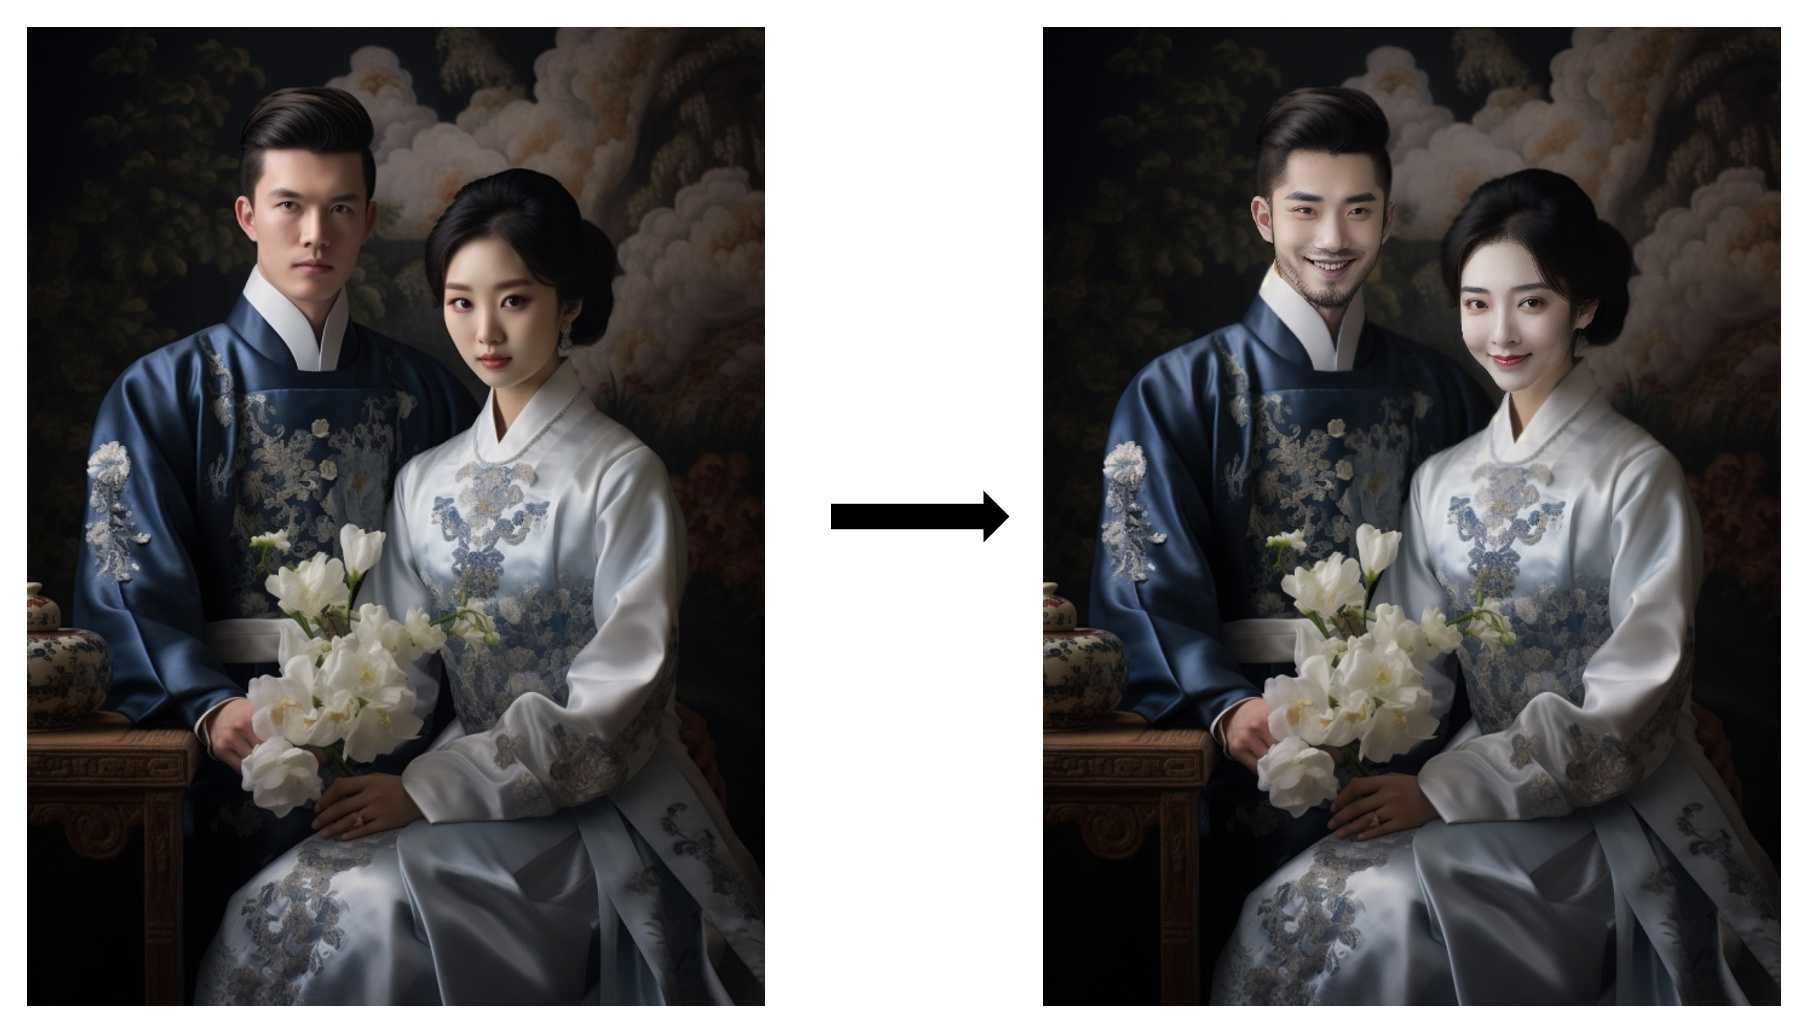
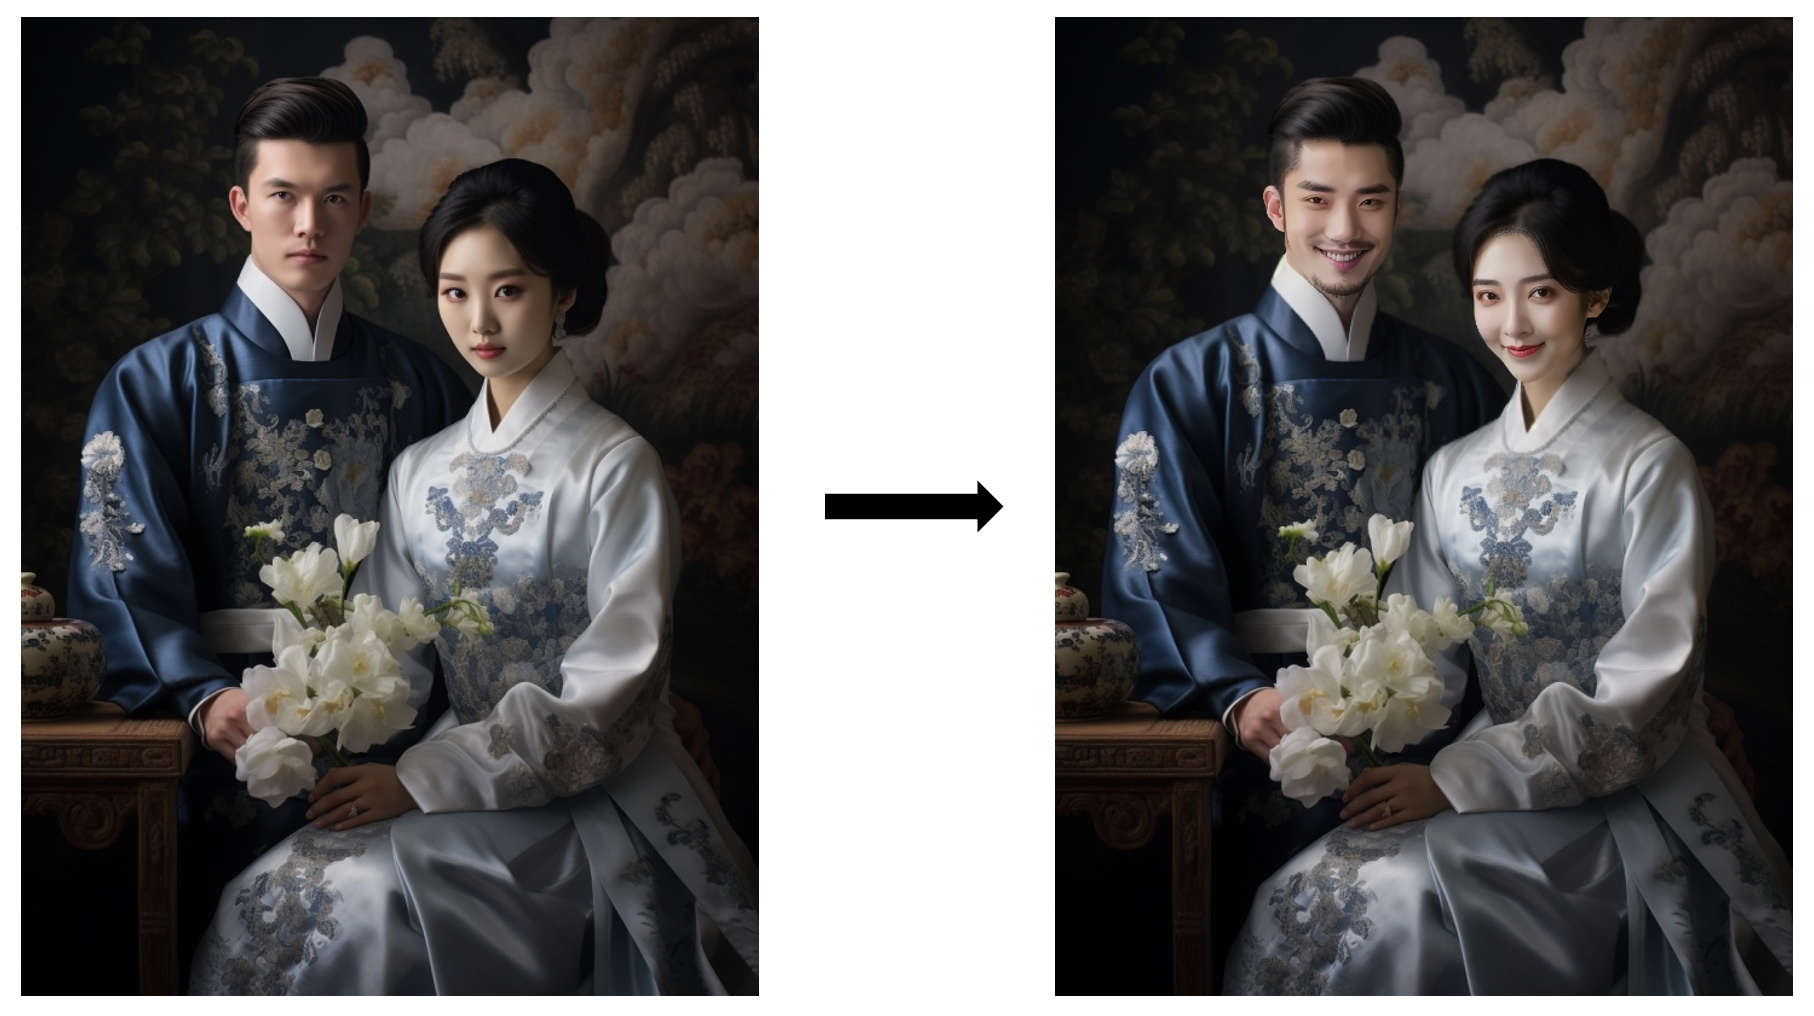
solve_inpaint_artifacts (#202)
solve_inpaint_artifacts & update_cover_img

diff --git a/facechain/inference_ipt.py b/facechain/inference_ipt.py
@@ -103,7 +103,7 @@ def crop_and_paste(Source_image, Source_image_mask, Target_image, Source_Five_Po
     return output, mask
 
 
-def segment(segmentation_pipeline, img, ksize=0, eyeh=0, ksize1=0, include_neck=False, warp_mask=None):
+def segment(segmentation_pipeline, img, ksize=0, eyeh=0, ksize1=0, include_neck=False, warp_mask=None, return_human=False):
     if True:
         result = segmentation_pipeline(img)
         masks = result['masks']
@@ -160,7 +160,11 @@ def segment(segmentation_pipeline, img, ksize=0, eyeh=0, ksize1=0, include_neck=
         if include_neck:
             soft_mask = np.clip(soft_mask + mask_neck, 0, 1)
 
-    return soft_mask
+    if return_human:  
+        mask_human = cv2.GaussianBlur(mask_human, (21, 21), 0) * mask_human
+        return soft_mask, mask_human
+    else:
+        return soft_mask
 
 
 def crop_bottom(pil_file, width):
@@ -321,13 +325,14 @@ def main_diffusion_inference_inpaint(inpaint_image, strength, output_img_size, p
     pipe = pipe.to("cuda")
 
     images_human = []
+    images_auto = []
     inpaint_bbox, inpaint_keypoints = call_face_crop(det_pipeline, inpaint_im, 1.1)
     eye_height = int((inpaint_keypoints[0, 1] + inpaint_keypoints[1, 1]) / 2)
     canny_image = cv2.Canny(np.array(inpaint_im, np.uint8), 100, 200)[:, :, None]
     mask = segment(segmentation_pipeline, inpaint_im, ksize=0.05, eyeh=eye_height)
     canny_image = (canny_image * (1.0 - mask[:, :, None])).astype(np.uint8)
     canny_image = Image.fromarray(np.concatenate([canny_image, canny_image, canny_image], axis=2))
-    canny_image.save('canny.png')
+    # canny_image.save('canny.png')
     for i in range(1):
         image_face = swap_results[i]
         image_face = Image.fromarray(image_face[:, :, ::-1])
@@ -340,31 +345,48 @@ def main_diffusion_inference_inpaint(inpaint_image, strength, output_img_size, p
         replaced_input_image, warp_mask = crop_and_paste(image_face, face_mask, inpaint_im, face_keypoints,
                                                          inpaint_keypoints, face_bbox)
         warp_mask = 1.0 - warp_mask
-        cv2.imwrite('tmp_{}.png'.format(i), replaced_input_image[:, :, ::-1])
+        # cv2.imwrite('tmp_{}.png'.format(i), replaced_input_image[:, :, ::-1])
 
         openpose_image = openpose(np.array(replaced_input_image * warp_mask, np.uint8), include_hand=True,
                                   include_body=False, include_face=True)
-        openpose_image.save('openpose_{}.png'.format(i))
+        # openpose_image.save('openpose_{}.png'.format(i))
         read_control = [openpose_image, canny_image]
-        inpaint_mask = segment(segmentation_pipeline, inpaint_im, ksize=0.1, ksize1=0.06, eyeh=eye_height, include_neck=False,
-                               warp_mask=warp_mask)
+        inpaint_mask, human_mask = segment(segmentation_pipeline, inpaint_im, ksize=0.1, ksize1=0.06, eyeh=eye_height, include_neck=False,
+                               warp_mask=warp_mask, return_human=True)
         inpaint_with_mask = ((1.0 - inpaint_mask[:,:,None]) * np.array(inpaint_im))[:,:,::-1]
-        cv2.imwrite('inpaint_with_mask_{}.png'.format(i), inpaint_with_mask)
+        # cv2.imwrite('inpaint_with_mask_{}.png'.format(i), inpaint_with_mask)
         print('Finishing segmenting images.')
         images_human.extend(img2img_multicontrol(inpaint_im, read_control, [1.0, 0.2], pipe, inpaint_mask,
                                                  trigger_style + add_prompt_style + pos_prompt, neg_prompt,
                                                  strength=strength))
+        images_auto.extend(img2img_multicontrol(inpaint_im, read_control, [1.0, 0.2], pipe, np.zeros_like(inpaint_mask),
+                                                 trigger_style + add_prompt_style + pos_prompt, neg_prompt,
+                                                 strength=0.025))
+    
+        edge_add = np.array(inpaint_im).astype(np.int16) - np.array(images_auto[i]).astype(np.int16)
+        edge_add = edge_add * (1 - human_mask[:,:,None])
+        images_human[i] = Image.fromarray((np.clip(np.array(images_human[i]).astype(np.int16) + edge_add.astype(np.int16), 0, 255)).astype(np.uint8))
+    
     images_rst = []
-    for im in images_human:
+    
+    for i in range(len(images_human)):
+        im = images_human[i]
         canny_image = cv2.Canny(np.array(im, np.uint8), 100, 200)[:, :, None]
         canny_image = Image.fromarray(np.concatenate([canny_image, canny_image, canny_image], axis=2))
         openpose_image = openpose(np.array(im, np.uint8), include_hand=True, include_face=True)
         read_control = [openpose_image, canny_image]
-        inpaint_mask = segment(segmentation_pipeline, images_human[i], ksize=0.02)
+        inpaint_mask, human_mask = segment(segmentation_pipeline, images_human[i], ksize=0.02, return_human=True)
         print('Finishing segmenting images.')
         image_rst = img2img_multicontrol(im, read_control, [0.8, 0.8], pipe, inpaint_mask,
                                          trigger_style + add_prompt_style + pos_prompt, neg_prompt, strength=0.1,
                                          num=1)[0]
+        image_auto = img2img_multicontrol(im, read_control, [0.8, 0.8], pipe, np.zeros_like(inpaint_mask),
+                                         trigger_style + add_prompt_style + pos_prompt, neg_prompt, strength=0.025,
+                                         num=1)[0]
+        edge_add = np.array(im).astype(np.int16) - np.array(image_auto).astype(np.int16)
+        edge_add = edge_add * (1 - human_mask[:,:,None])
+        image_rst = Image.fromarray((np.clip(np.array(image_rst).astype(np.int16) + edge_add.astype(np.int16), 0, 255)).astype(np.uint8))
+        
         images_rst.append(image_rst)
 
     for i in range(1):
@@ -472,7 +494,8 @@ def main_diffusion_inference_inpaint_multi(inpaint_images, strength, output_img_
     pipe = merge_lora(pipe, lora_model_path, multiplier_human, from_safetensor=False)
     pipe = pipe.to("cuda")
 
-    images_human = []    
+    images_human = []  
+    images_auto = []
     for i in range(1):
         inpaint_im = inpaint_images[i]
         inpaint_bbox, inpaint_keypoints = call_face_crop(det_pipeline, inpaint_im, 1.1)
@@ -499,25 +522,42 @@ def main_diffusion_inference_inpaint_multi(inpaint_images, strength, output_img_
                                   include_body=False, include_face=True)
         # openpose_image.save('openpose_{}.png'.format(i))
         read_control = [openpose_image, canny_image]
-        inpaint_mask = segment(segmentation_pipeline, inpaint_im, ksize=0.1, ksize1=0.06, eyeh=eye_height, include_neck=False,
-                               warp_mask=warp_mask)
+        inpaint_mask, human_mask = segment(segmentation_pipeline, inpaint_im, ksize=0.1, ksize1=0.06, eyeh=eye_height, include_neck=False,
+                               warp_mask=warp_mask, return_human=True)
         inpaint_with_mask = ((1.0 - inpaint_mask[:,:,None]) * np.array(inpaint_im))[:,:,::-1]
         # cv2.imwrite('inpaint_with_mask_{}.png'.format(i), inpaint_with_mask)
         print('Finishing segmenting images.')
         images_human.extend(img2img_multicontrol(inpaint_im, read_control, [1.0, 0.2], pipe, inpaint_mask,
                                                  trigger_style + add_prompt_style + pos_prompt, neg_prompt,
                                                  strength=strength))
+        images_auto.extend(img2img_multicontrol(inpaint_im, read_control, [1.0, 0.2], pipe, np.zeros_like(inpaint_mask),
+                                                 trigger_style + add_prompt_style + pos_prompt, neg_prompt,
+                                                 strength=0.025))
+    
+        edge_add = np.array(inpaint_im).astype(np.int16) - np.array(images_auto[i]).astype(np.int16)
+        edge_add = edge_add * (1 - human_mask[:,:,None])
+        images_human[i] = Image.fromarray((np.clip(np.array(images_human[i]).astype(np.int16) + edge_add.astype(np.int16), 0, 255)).astype(np.uint8))
+        
+    
     images_rst = []
-    for im in images_human:
+    for i in range(len(images_human)):
+        im = images_human[i]
         canny_image = cv2.Canny(np.array(im, np.uint8), 100, 200)[:, :, None]
         canny_image = Image.fromarray(np.concatenate([canny_image, canny_image, canny_image], axis=2))
         openpose_image = openpose(np.array(im, np.uint8), include_hand=True, include_face=True)
         read_control = [openpose_image, canny_image]
-        inpaint_mask = segment(segmentation_pipeline, images_human[i], ksize=0.02)
+        inpaint_mask, human_mask = segment(segmentation_pipeline, images_human[i], ksize=0.02, return_human=True)
         print('Finishing segmenting images.')
-        image_rst = img2img_multicontrol(im, read_control, [0.8, 0.8], pipe, inpaint_mask,
+        image_rst = img2img_multicontrol(im, read_control, [0.8, 0.8], pipe, np.zeros_like(inpaint_mask),
                                          trigger_style + add_prompt_style + pos_prompt, neg_prompt, strength=0.1,
                                          num=1)[0]
+        image_auto = img2img_multicontrol(im, read_control, [0.8, 0.8], pipe, np.zeros_like(inpaint_mask),
+                                         trigger_style + add_prompt_style + pos_prompt, neg_prompt, strength=0.025,
+                                         num=1)[0]
+        edge_add = np.array(im).astype(np.int16) - np.array(image_auto).astype(np.int16)
+        edge_add = edge_add * (1 - human_mask[:,:,None])
+        image_rst = Image.fromarray((np.clip(np.array(image_rst).astype(np.int16) + edge_add.astype(np.int16), 0, 255)).astype(np.uint8))
+        
         images_rst.append(image_rst)
 
     for i in range(1):
@@ -760,7 +800,7 @@ class GenPortrait_ipt_new:
             
             inpaint_imgs = []
             for i in range(1):
-                inpaint_img_large = final_gen_results_new[i]
+                inpaint_img_large = final_gen_results_new[i] * mask_large
                 inpaint_img = np.pad(inpaint_img_large[cy-cropup:cy+cropbo, cx-crople:cx+cropri], ((cropl-cropup, cropl-cropbo), (cropl-crople, cropl-cropri), (0, 0)), 'constant')
                 inpaint_img = cv2.resize(inpaint_img, (512, 512)) 
                 inpaint_img = Image.fromarray(inpaint_img[:,:,::-1])
